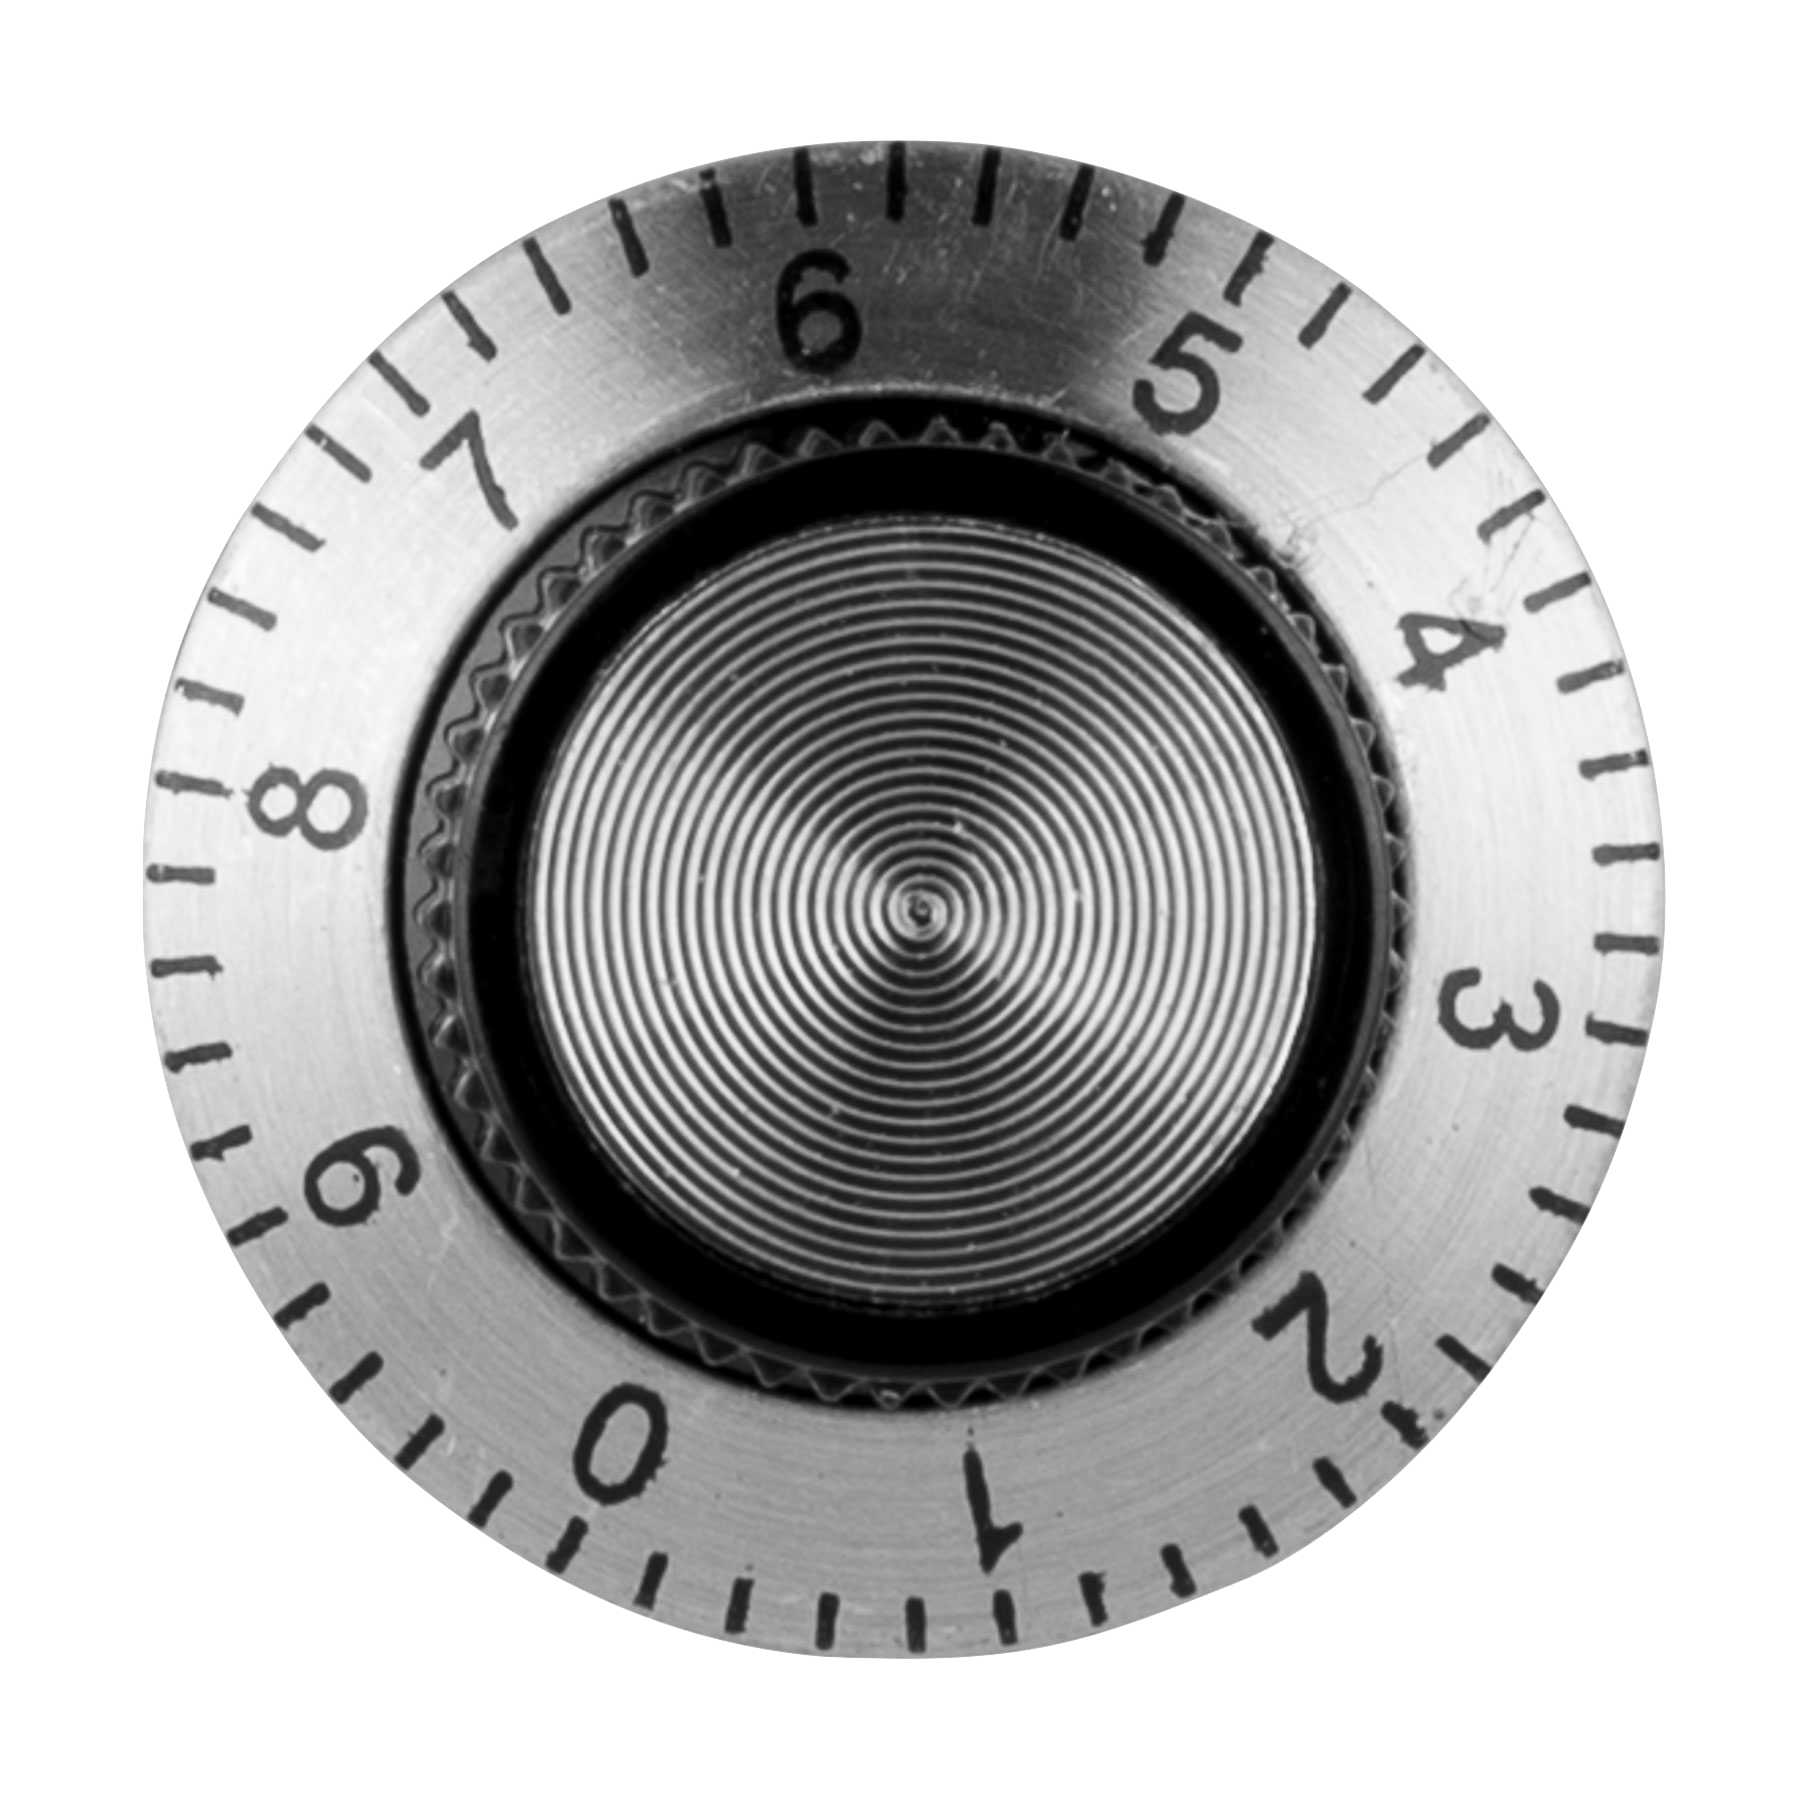
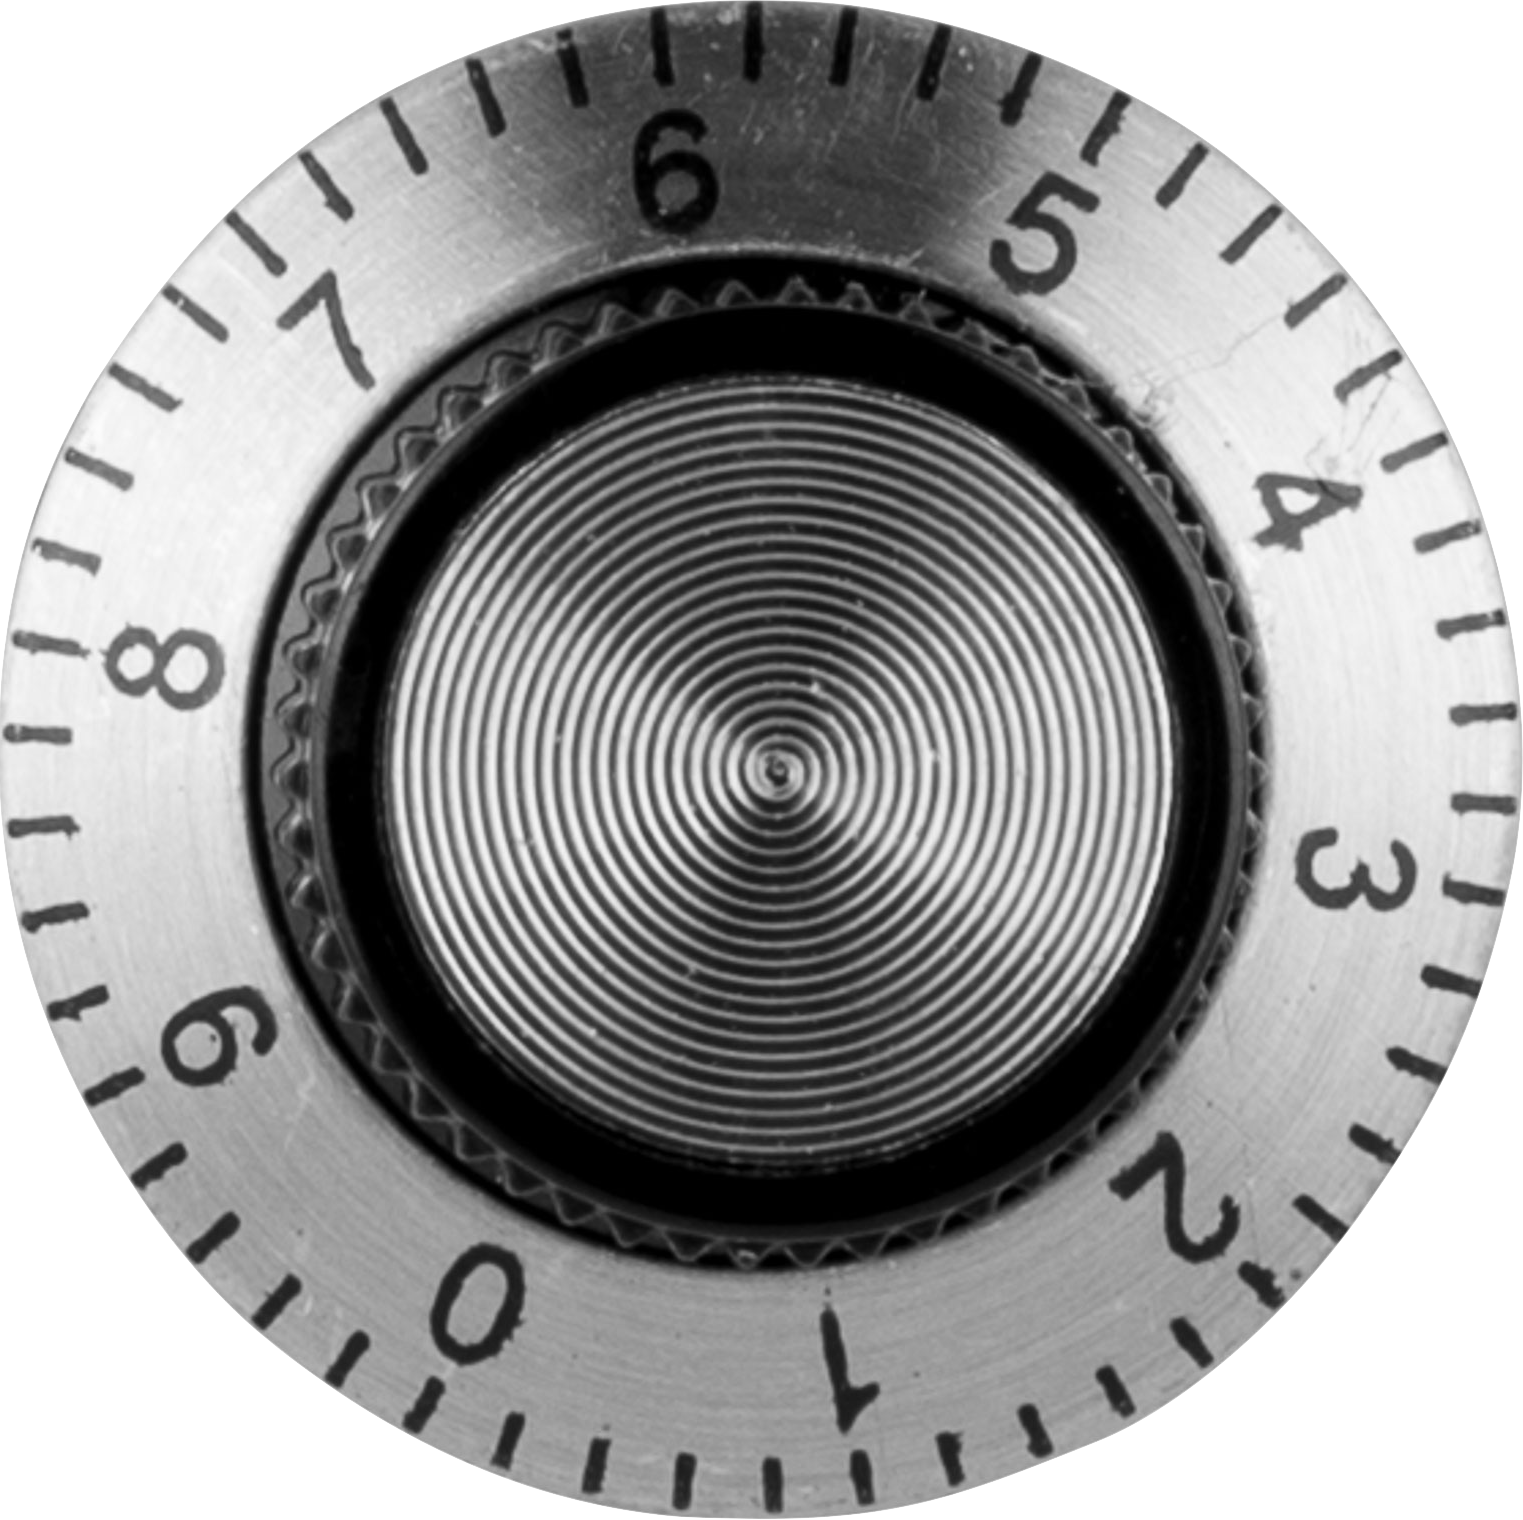
added twisting dials

diff --git a/watsong/templates/jukebox.html b/watsong/templates/jukebox.html
@@ -6,7 +6,7 @@
 
 {% block content %}
 <div id="prompt">
-  <form id="query-form">
+  <form action={{ url_for('jukebox.jukebox') }} method="post">
     <p>What are you looking for?</p>
     <input type="text" placeholder="Beach tunes for 4th of July" name="query">
     <input type="submit" />
@@ -15,45 +15,27 @@
 <h2>Songs</h2>
 <button onclick="showPlaylist()">Show on Spotify</button>
 <div id="playlist">
+  {% for song in songs %}
+    <div class="song">
+      <p class="title">{{ song['song'] }}</p>
+      <p class="artist">{{ song['artist'] }}</p>
+    </div>
+  {% endfor %}
 </div>
 <div id="dials">
-  <div class="dial" id="energy">
-    <img src="{{ url_for('static', filename='images/dial.png') }}" />
-    <button class="less" onclick="less(this)">Less</button>
-    <span>Energy</span>
-    <button class="more" onclick="addEnergy(this)">More</button>
-    <br />
-    <button onclick="reload()">GO!</button>
-  </div>
-
-  <div class="dial" id="dance">
-    <img src="{{ url_for('static', filename='images/dial.png') }}" />
-    <button class="less" onclick="less(this)">Less</button>
-    <span>Dance</span>
-    <button class="more" onclick="more(this)">More</button>
-    <br />
-    <button onclick="reload()">GO!</button>
-  </div>
-
-  <div class="dial" id="lyrics">
-    <img src="{{ url_for('static', filename='images/dial.png') }}" />
-    <button class="less" onclick="removeLyrics(this)">Less</button>
-    <span>Lyrics</span>
-    <button class="more" onclick="more(this)">More</button>
-    <br />
-    <button onclick="reload()">GO!</button>
-  </div>
-
-  <div class="dial" id="melody">
-    <img src="{{ url_for('static', filename='images/dial.png') }}" />
-    <button class="less" onclick="less(this)">Less</button>
-    <span>Melody</span>
-    <button class="more" onclick="more(this)">More</button>
-    <br />
-    <button onclick="reload()">GO!</button>
-  </div>
+  {% for dial in dials %}
+    <div class="dial" id="energy">
+      <p>|</p>
+      
+      <div>
+        <img style="transform: rotate(5.79061rad);" src="{{ url_for('static', filename='images/dial.png') }}" />
+      </div>
+      
+      <span>{{ dial.lower().capitalize() }}</span>
+    </div>
+  {% endfor %}
 </div>
 
-<script src="{{ url_for('static', filename = 'js/demo.js') }}"></script>
-
+<script src="{{ url_for('static', filename = 'js/draggable.js') }}"></script>
+    
 {% endblock %}

diff --git a/watsong/static/js/draggable.js b/watsong/static/js/draggable.js
@@ -1,0 +1,73 @@
+function getCenter(elem) {
+  const { top, left, width } = elem.getBoundingClientRect();
+  // return { y: top, x: left };
+  return { y: top + width / 2, x: left + width / 2 };
+}
+
+function getCoord(event) {
+  if (event.clientX && event.clientY) {
+    return { x: event.clientX, y: event.clientY };
+  }
+
+  // return coordinates of first touch
+  if (event.touches && event.touches.length > 0) {
+    const firstTouch = event.touches[0];
+
+    return { x: firstTouch.clientX, y: firstTouch.clientY };
+  }
+}
+
+
+function makeElemTwistable(elem) {
+  var currentAngle = 0, prevAngle = 0, initialAngle = 0;
+
+  elem.onmousedown = twistStart;
+  elem.ontouchstart = twistStart;
+
+  const center = getCenter(elem);
+
+
+
+  function twistStart(event) {
+    event = event || window.event;
+    event.preventDefault();
+
+    const { x, y } = getCoord(event);
+
+    initialAngle = Math.atan2(x - center.x, y - center.y);
+
+    document.onmouseup = stopTwisting;
+    document.onmousemove = twistElement;
+
+    document.ontouchend = stopTwisting;
+    document.ontouchmove = twistElement;
+  }
+
+  function twistElement(event) {
+    event = event || window.event;
+    event.preventDefault();
+
+    const { x, y } = getCoord(event);
+
+    const newAngle = Math.atan2(x - center.x, y - center.y);
+
+    currentAngle = -(prevAngle + newAngle - initialAngle);
+
+    $(elem).css("transform", `rotate(${currentAngle}rad)`);
+  }
+
+  function stopTwisting() {
+    // stop twisting when mouse button is released
+    document.onmouseup = null;
+    document.onmousemove = null;
+
+    document.ontouchend = null;
+    document.ontouchmove = null;
+
+    prevAngle = -currentAngle;
+  }
+}
+
+$.each($('.dial > div'), function (_, elem) {
+  makeElemTwistable(elem);
+});

diff --git a/watsong/static/css/style.css b/watsong/static/css/style.css
@@ -6,7 +6,7 @@
 }
 
 main {
-  max-width: 60%;
+  max-width: min(800px, 98%);
   margin: auto;
 }
 
@@ -21,9 +21,8 @@ button {
   text-align: center;
 }
 
-.dial > img {
+.dial img {
   width: 100%;
-  rotate: -31deg;
   transition: all 1s ease;
 }
 

diff --git a/watsong/templates/base.html b/watsong/templates/base.html
@@ -23,7 +23,5 @@
     <div class="flash">{{ message }}</div>
     {% endfor %}
     {% block content %}{% endblock %}
-    
-    
   </main>
 </body>

diff --git a/watsong/jukebox.py b/watsong/jukebox.py
@@ -2,30 +2,39 @@
 This is the main controller (called blueprints in Flask) for the application.
 """
 
-from flask import Blueprint, render_template, request, flash, jsonify
+from flask import Blueprint, render_template, request, jsonify, session
 
 from . import watson, spotify
 
 bp = Blueprint("jukebox", __name__, url_prefix="/jukebox")
 
+DIALS = ["energy", "lyrics", "dance", "melody"]
 
-@bp.route("/", methods=["GET"])
+
+@bp.route("/", methods=["GET", "POST"])
 def jukebox():
-    return render_template("jukebox.html")
+    """
+    Renders the empty jukebox page.
+    """
+    songs = []
 
+    if request.method == "POST":
+        query = request.form["query"]
 
-@bp.route("/_nat_lang_query", methods=["GET"])
-def nat_lang_query():
-    query = request.args.get("query", "", type=str)
+        print(query)
 
-    albums, err = watson.get_albums(query)
+        if query:
+            albums, err = watson.get_albums(query)
 
-    if err is not None:
-        return jsonify({"error": str(err)})
+            if err is not None:
+                return jsonify({"error": str(err)})
 
-    songs, err = spotify.get_songs(albums)
+            songs, err = spotify.get_songs(albums)
 
-    if err is not None:
-        return jsonify({"error": str(err)})
+            if err is not None:
+                return jsonify({"error": str(err)})
 
-    return jsonify(songs)
+            session.clear()
+            session["songs"] = songs
+
+    return render_template("jukebox.html", songs=songs, dials=DIALS)
